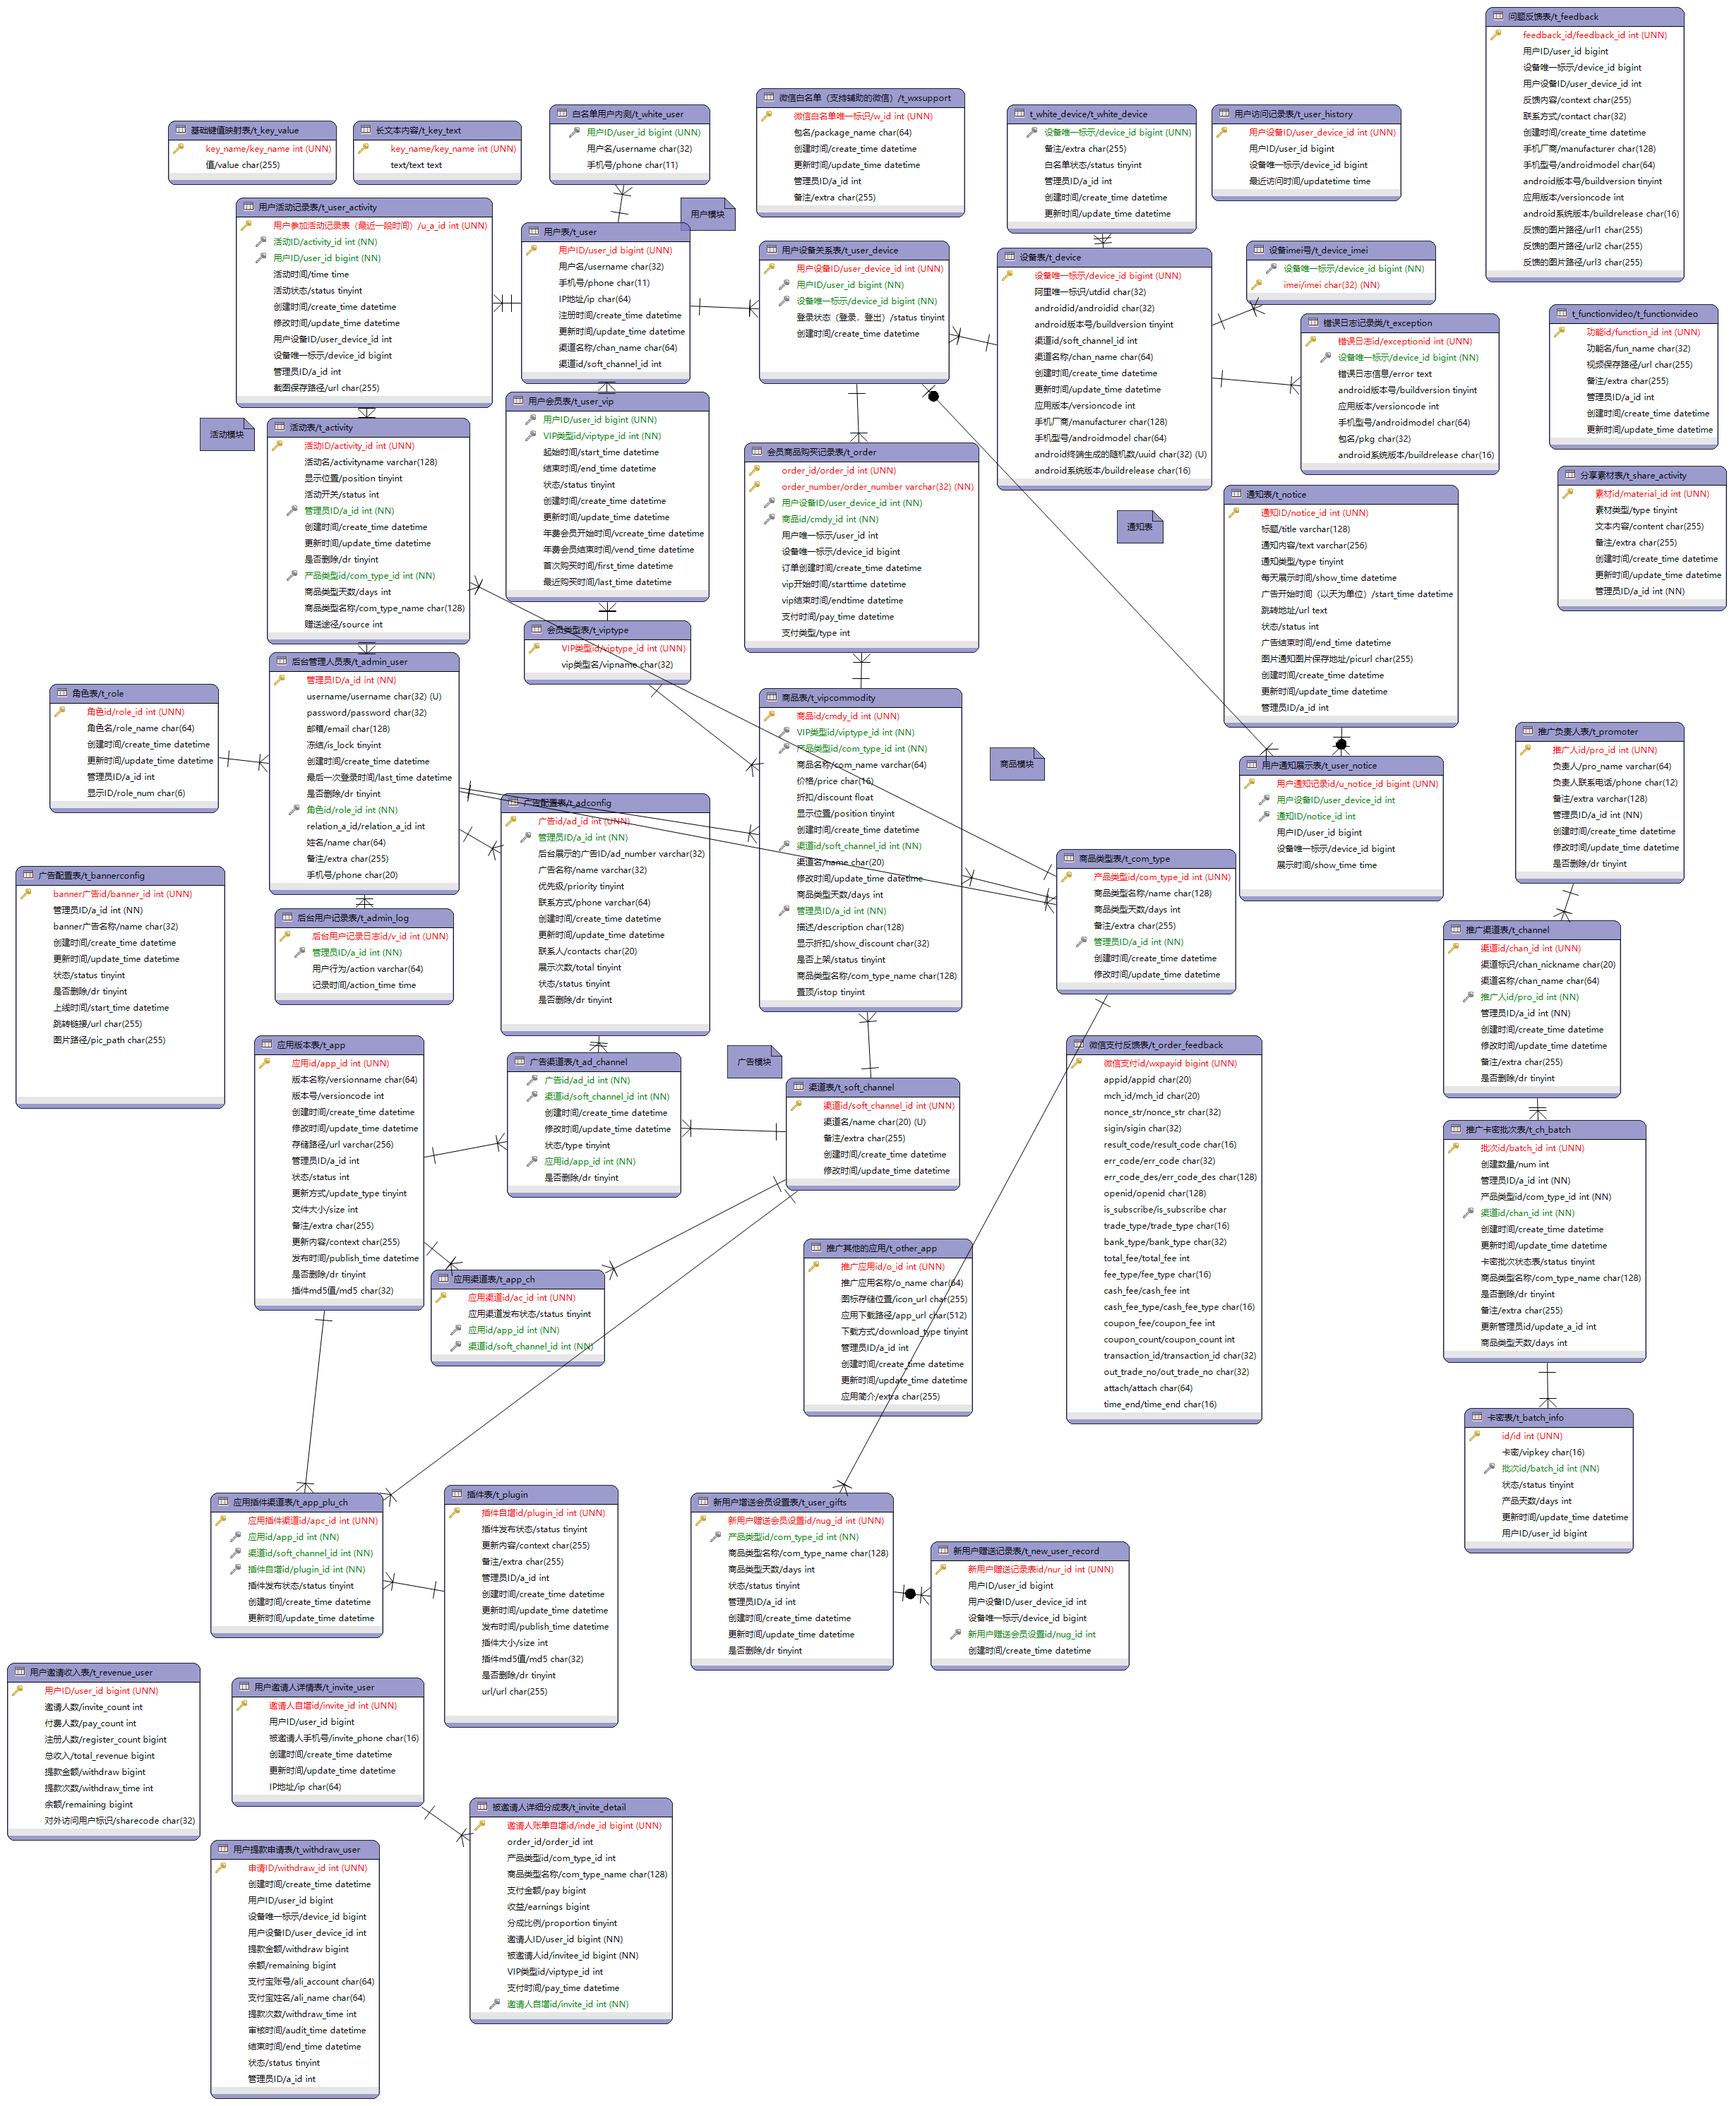
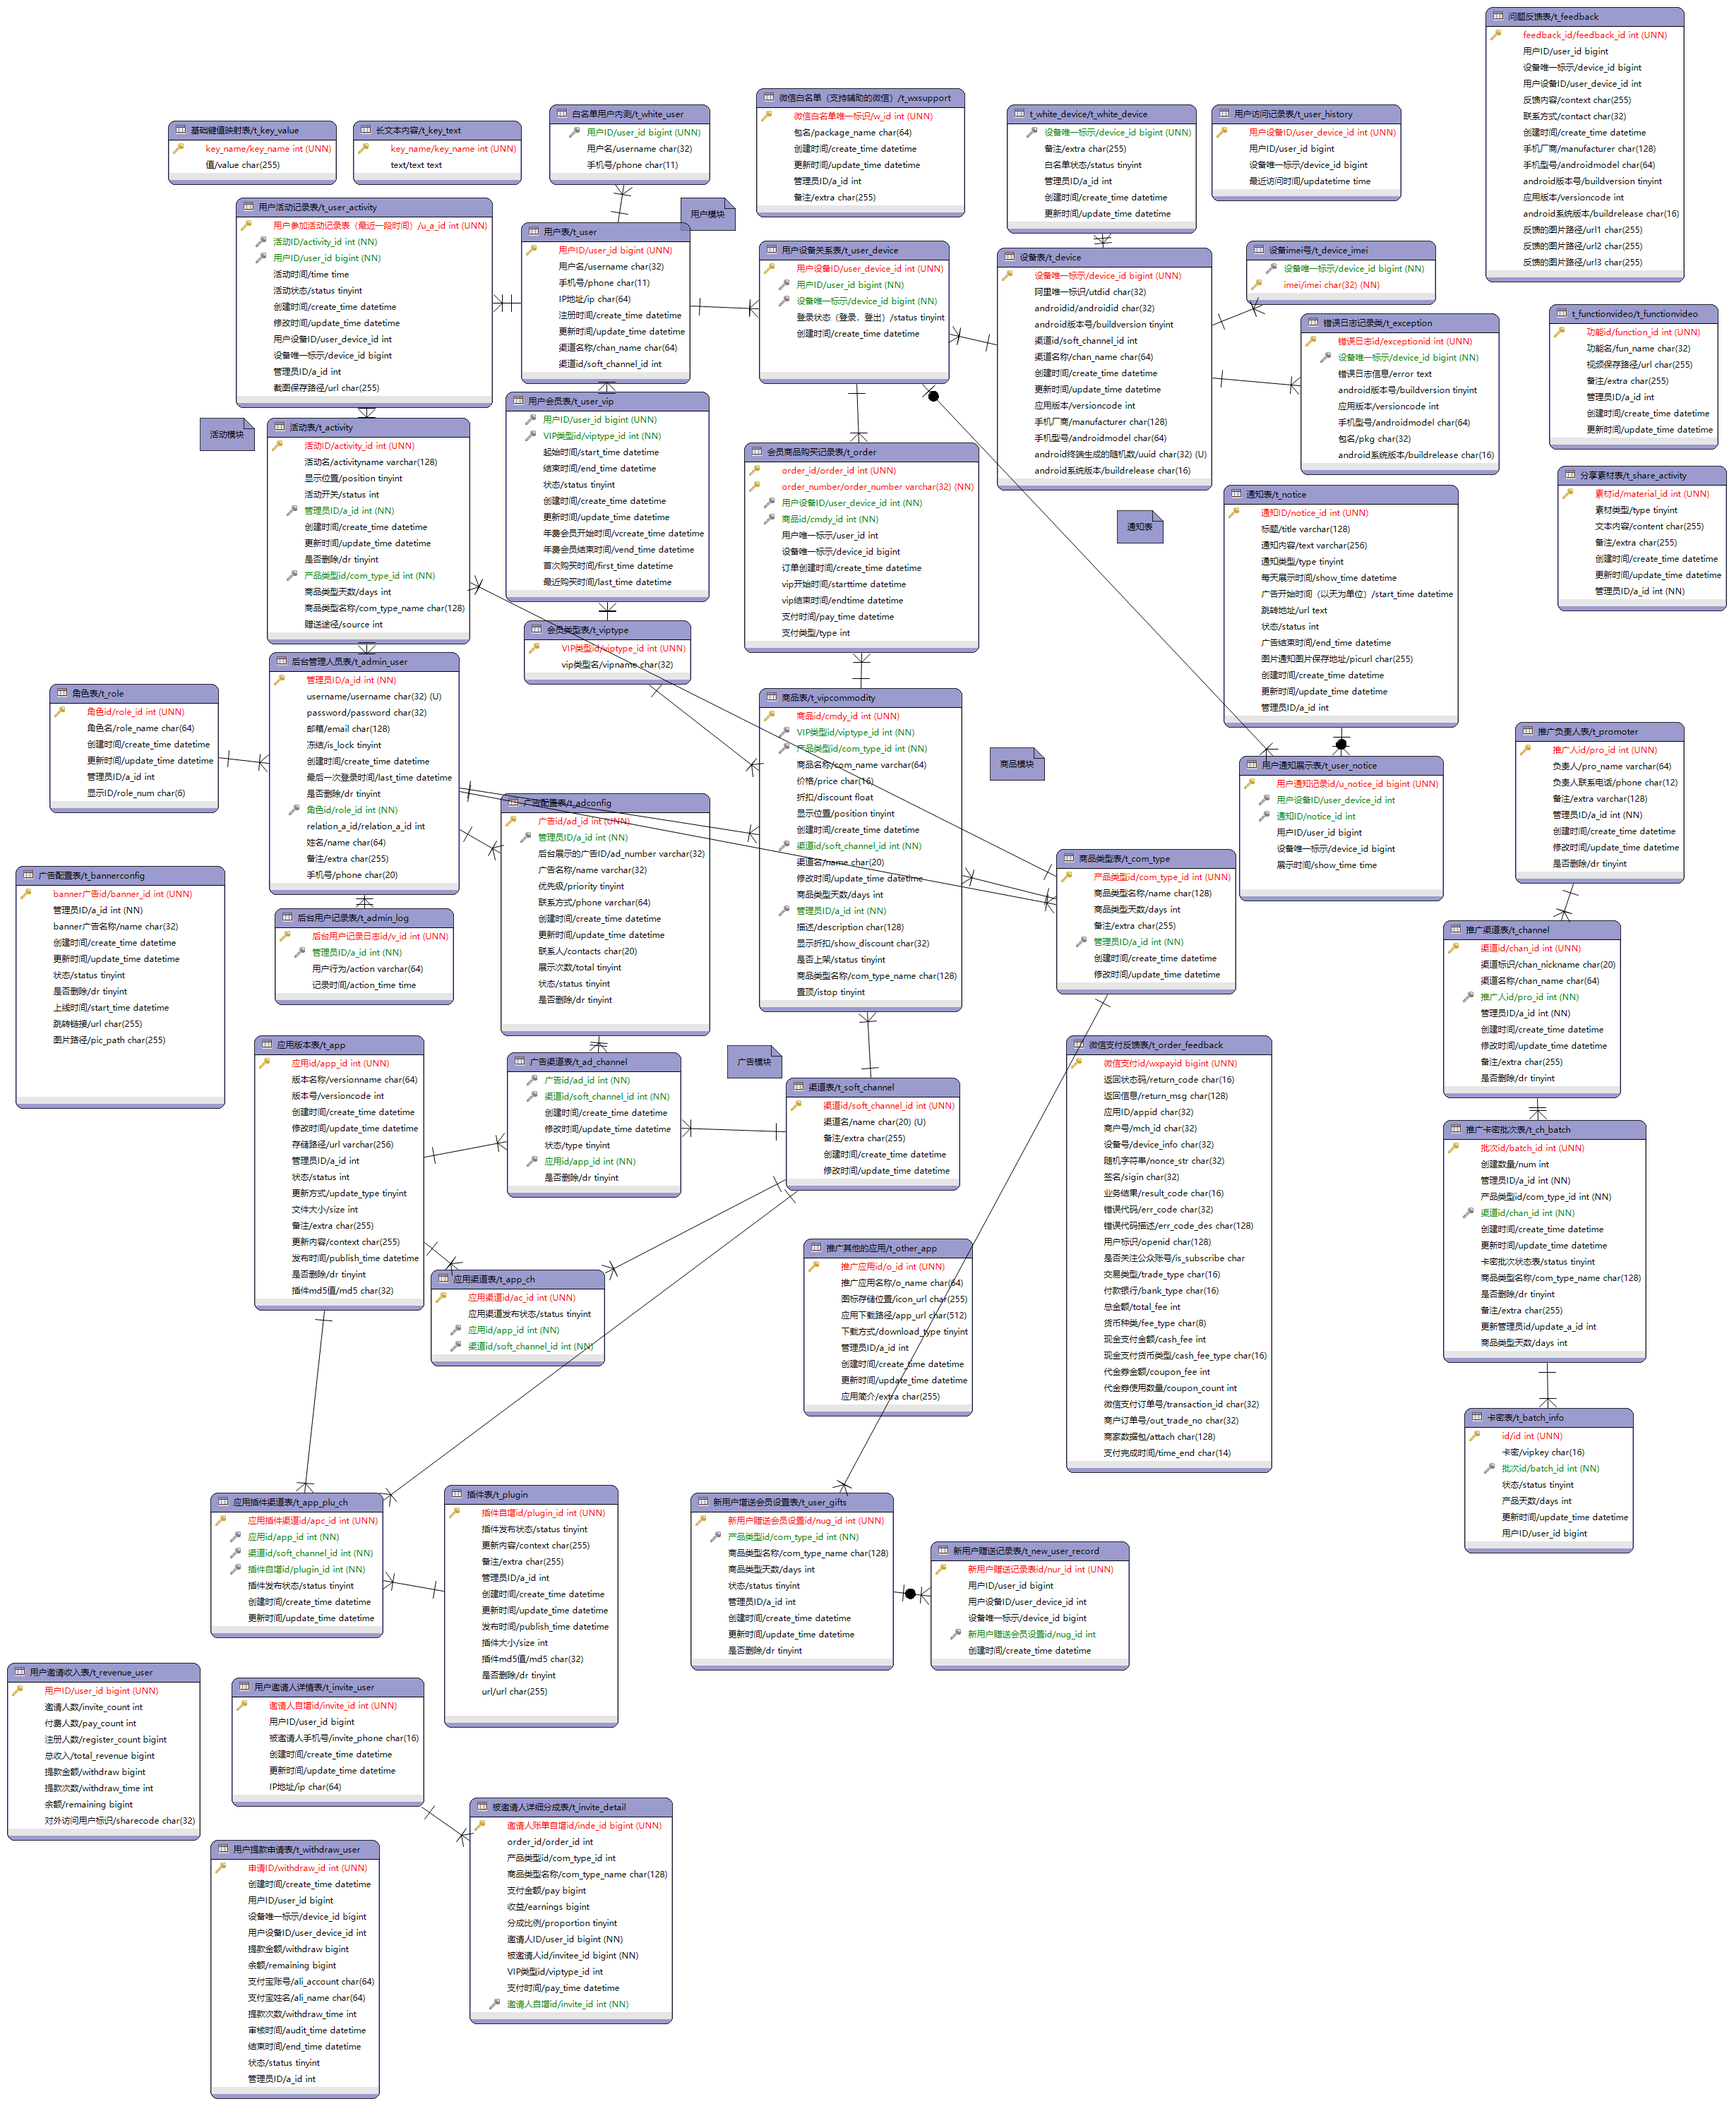
修改微信支付反馈表

Changed region(s): [[0.6189, 0.4987, 0.7427, 0.7168]]

diff --git a/smartweb/src/main/java/com/rpa/web/pojo/OrderFeedbackPO.java b/smartweb/src/main/java/com/rpa/web/pojo/OrderFeedbackPO.java
@@ -9,9 +9,15 @@ import java.io.Serializable;
 public class OrderFeedbackPO implements Serializable {
     private Long wxpayid;
 
+    private String returnCode;
+
+    private String returnMsg;
+
     private String appid;
 
     private String mchId;
+
+    private String deviceInfo;
 
     private String nonceStr;
 
@@ -39,11 +45,6 @@ public class OrderFeedbackPO implements Serializable {
 
     private String cashFeeType;
 
-    /**
-     * 
-
-
-     */
     private Integer couponFee;
 
     private Integer couponCount;
@@ -66,6 +67,22 @@ public class OrderFeedbackPO implements Serializable {
         this.wxpayid = wxpayid;
     }
 
+    public String getReturnCode() {
+        return returnCode;
+    }
+
+    public void setReturnCode(String returnCode) {
+        this.returnCode = returnCode;
+    }
+
+    public String getReturnMsg() {
+        return returnMsg;
+    }
+
+    public void setReturnMsg(String returnMsg) {
+        this.returnMsg = returnMsg;
+    }
+
     public String getAppid() {
         return appid;
     }
@@ -80,6 +97,14 @@ public class OrderFeedbackPO implements Serializable {
 
     public void setMchId(String mchId) {
         this.mchId = mchId;
+    }
+
+    public String getDeviceInfo() {
+        return deviceInfo;
+    }
+
+    public void setDeviceInfo(String deviceInfo) {
+        this.deviceInfo = deviceInfo;
     }
 
     public String getNonceStr() {
@@ -247,8 +272,11 @@ public class OrderFeedbackPO implements Serializable {
         }
         OrderFeedbackPO other = (OrderFeedbackPO) that;
         return (this.getWxpayid() == null ? other.getWxpayid() == null : this.getWxpayid().equals(other.getWxpayid()))
+            && (this.getReturnCode() == null ? other.getReturnCode() == null : this.getReturnCode().equals(other.getReturnCode()))
+            && (this.getReturnMsg() == null ? other.getReturnMsg() == null : this.getReturnMsg().equals(other.getReturnMsg()))
             && (this.getAppid() == null ? other.getAppid() == null : this.getAppid().equals(other.getAppid()))
             && (this.getMchId() == null ? other.getMchId() == null : this.getMchId().equals(other.getMchId()))
+            && (this.getDeviceInfo() == null ? other.getDeviceInfo() == null : this.getDeviceInfo().equals(other.getDeviceInfo()))
             && (this.getNonceStr() == null ? other.getNonceStr() == null : this.getNonceStr().equals(other.getNonceStr()))
             && (this.getSigin() == null ? other.getSigin() == null : this.getSigin().equals(other.getSigin()))
             && (this.getResultCode() == null ? other.getResultCode() == null : this.getResultCode().equals(other.getResultCode()))
@@ -275,8 +303,11 @@ public class OrderFeedbackPO implements Serializable {
         final int prime = 31;
         int result = 1;
         result = prime * result + ((getWxpayid() == null) ? 0 : getWxpayid().hashCode());
+        result = prime * result + ((getReturnCode() == null) ? 0 : getReturnCode().hashCode());
+        result = prime * result + ((getReturnMsg() == null) ? 0 : getReturnMsg().hashCode());
         result = prime * result + ((getAppid() == null) ? 0 : getAppid().hashCode());
         result = prime * result + ((getMchId() == null) ? 0 : getMchId().hashCode());
+        result = prime * result + ((getDeviceInfo() == null) ? 0 : getDeviceInfo().hashCode());
         result = prime * result + ((getNonceStr() == null) ? 0 : getNonceStr().hashCode());
         result = prime * result + ((getSigin() == null) ? 0 : getSigin().hashCode());
         result = prime * result + ((getResultCode() == null) ? 0 : getResultCode().hashCode());
@@ -306,8 +337,11 @@ public class OrderFeedbackPO implements Serializable {
         sb.append(" [");
         sb.append("Hash = ").append(hashCode());
         sb.append(", wxpayid=").append(wxpayid);
+        sb.append(", returnCode=").append(returnCode);
+        sb.append(", returnMsg=").append(returnMsg);
         sb.append(", appid=").append(appid);
         sb.append(", mchId=").append(mchId);
+        sb.append(", deviceInfo=").append(deviceInfo);
         sb.append(", nonceStr=").append(nonceStr);
         sb.append(", sigin=").append(sigin);
         sb.append(", resultCode=").append(resultCode);

diff --git a/smartserver/src/main/java/com/rpa/server/pojo/OrderFeedbackPO.java b/smartserver/src/main/java/com/rpa/server/pojo/OrderFeedbackPO.java
@@ -9,9 +9,15 @@ import java.io.Serializable;
 public class OrderFeedbackPO implements Serializable {
     private Long wxpayid;
 
+    private String returnCode;
+
+    private String returnMsg;
+
     private String appid;
 
     private String mchId;
+
+    private String deviceInfo;
 
     private String nonceStr;
 
@@ -61,6 +67,22 @@ public class OrderFeedbackPO implements Serializable {
         this.wxpayid = wxpayid;
     }
 
+    public String getReturnCode() {
+        return returnCode;
+    }
+
+    public void setReturnCode(String returnCode) {
+        this.returnCode = returnCode;
+    }
+
+    public String getReturnMsg() {
+        return returnMsg;
+    }
+
+    public void setReturnMsg(String returnMsg) {
+        this.returnMsg = returnMsg;
+    }
+
     public String getAppid() {
         return appid;
     }
@@ -75,6 +97,14 @@ public class OrderFeedbackPO implements Serializable {
 
     public void setMchId(String mchId) {
         this.mchId = mchId;
+    }
+
+    public String getDeviceInfo() {
+        return deviceInfo;
+    }
+
+    public void setDeviceInfo(String deviceInfo) {
+        this.deviceInfo = deviceInfo;
     }
 
     public String getNonceStr() {
@@ -242,8 +272,11 @@ public class OrderFeedbackPO implements Serializable {
         }
         OrderFeedbackPO other = (OrderFeedbackPO) that;
         return (this.getWxpayid() == null ? other.getWxpayid() == null : this.getWxpayid().equals(other.getWxpayid()))
+            && (this.getReturnCode() == null ? other.getReturnCode() == null : this.getReturnCode().equals(other.getReturnCode()))
+            && (this.getReturnMsg() == null ? other.getReturnMsg() == null : this.getReturnMsg().equals(other.getReturnMsg()))
             && (this.getAppid() == null ? other.getAppid() == null : this.getAppid().equals(other.getAppid()))
             && (this.getMchId() == null ? other.getMchId() == null : this.getMchId().equals(other.getMchId()))
+            && (this.getDeviceInfo() == null ? other.getDeviceInfo() == null : this.getDeviceInfo().equals(other.getDeviceInfo()))
             && (this.getNonceStr() == null ? other.getNonceStr() == null : this.getNonceStr().equals(other.getNonceStr()))
             && (this.getSigin() == null ? other.getSigin() == null : this.getSigin().equals(other.getSigin()))
             && (this.getResultCode() == null ? other.getResultCode() == null : this.getResultCode().equals(other.getResultCode()))
@@ -270,8 +303,11 @@ public class OrderFeedbackPO implements Serializable {
         final int prime = 31;
         int result = 1;
         result = prime * result + ((getWxpayid() == null) ? 0 : getWxpayid().hashCode());
+        result = prime * result + ((getReturnCode() == null) ? 0 : getReturnCode().hashCode());
+        result = prime * result + ((getReturnMsg() == null) ? 0 : getReturnMsg().hashCode());
         result = prime * result + ((getAppid() == null) ? 0 : getAppid().hashCode());
         result = prime * result + ((getMchId() == null) ? 0 : getMchId().hashCode());
+        result = prime * result + ((getDeviceInfo() == null) ? 0 : getDeviceInfo().hashCode());
         result = prime * result + ((getNonceStr() == null) ? 0 : getNonceStr().hashCode());
         result = prime * result + ((getSigin() == null) ? 0 : getSigin().hashCode());
         result = prime * result + ((getResultCode() == null) ? 0 : getResultCode().hashCode());
@@ -301,8 +337,11 @@ public class OrderFeedbackPO implements Serializable {
         sb.append(" [");
         sb.append("Hash = ").append(hashCode());
         sb.append(", wxpayid=").append(wxpayid);
+        sb.append(", returnCode=").append(returnCode);
+        sb.append(", returnMsg=").append(returnMsg);
         sb.append(", appid=").append(appid);
         sb.append(", mchId=").append(mchId);
+        sb.append(", deviceInfo=").append(deviceInfo);
         sb.append(", nonceStr=").append(nonceStr);
         sb.append(", sigin=").append(sigin);
         sb.append(", resultCode=").append(resultCode);

diff --git a/smartweb/src/main/java/com/rpa/web/pojo/UserActivityPO.java b/smartweb/src/main/java/com/rpa/web/pojo/UserActivityPO.java
@@ -17,7 +17,7 @@ public class UserActivityPO implements Serializable {
     private Date time;
 
     /**
-     * 当活动存在多个执行状态时，默认为1     10 通过   20 驳回
+     * 当活动存在多个执行状态时，默认为1     10 通过  30 领取  20 驳回
      */
     private Byte status;
 
